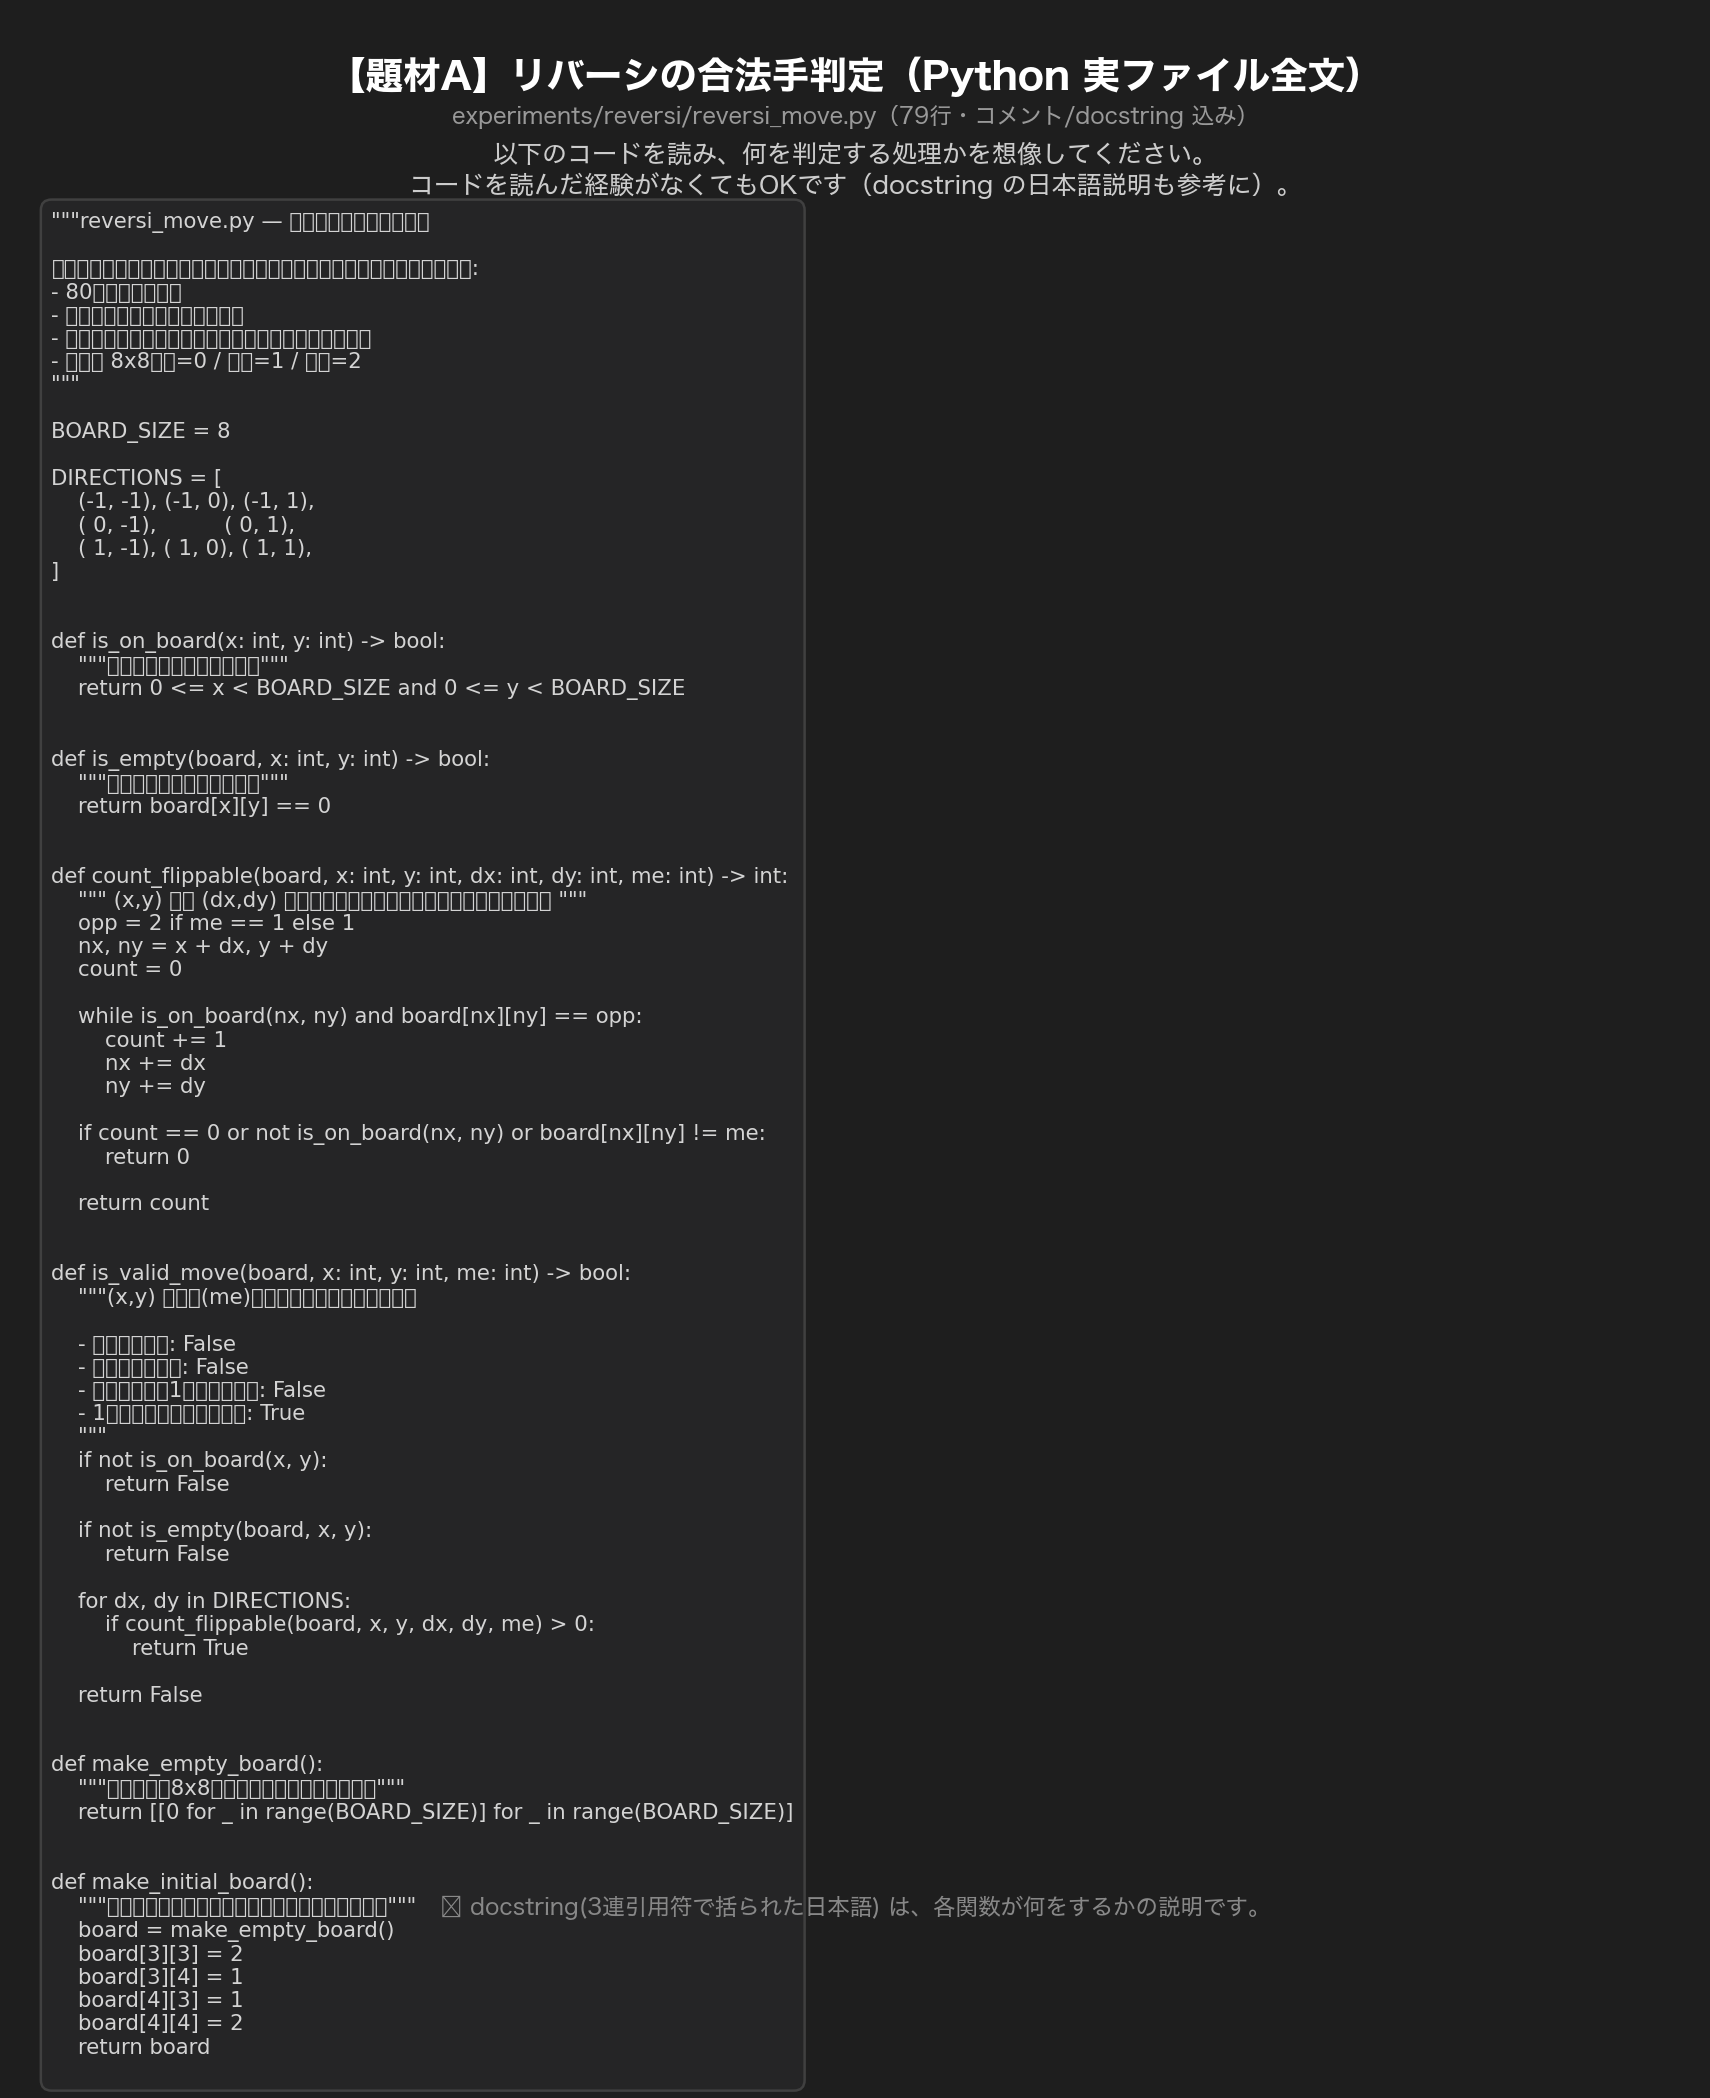
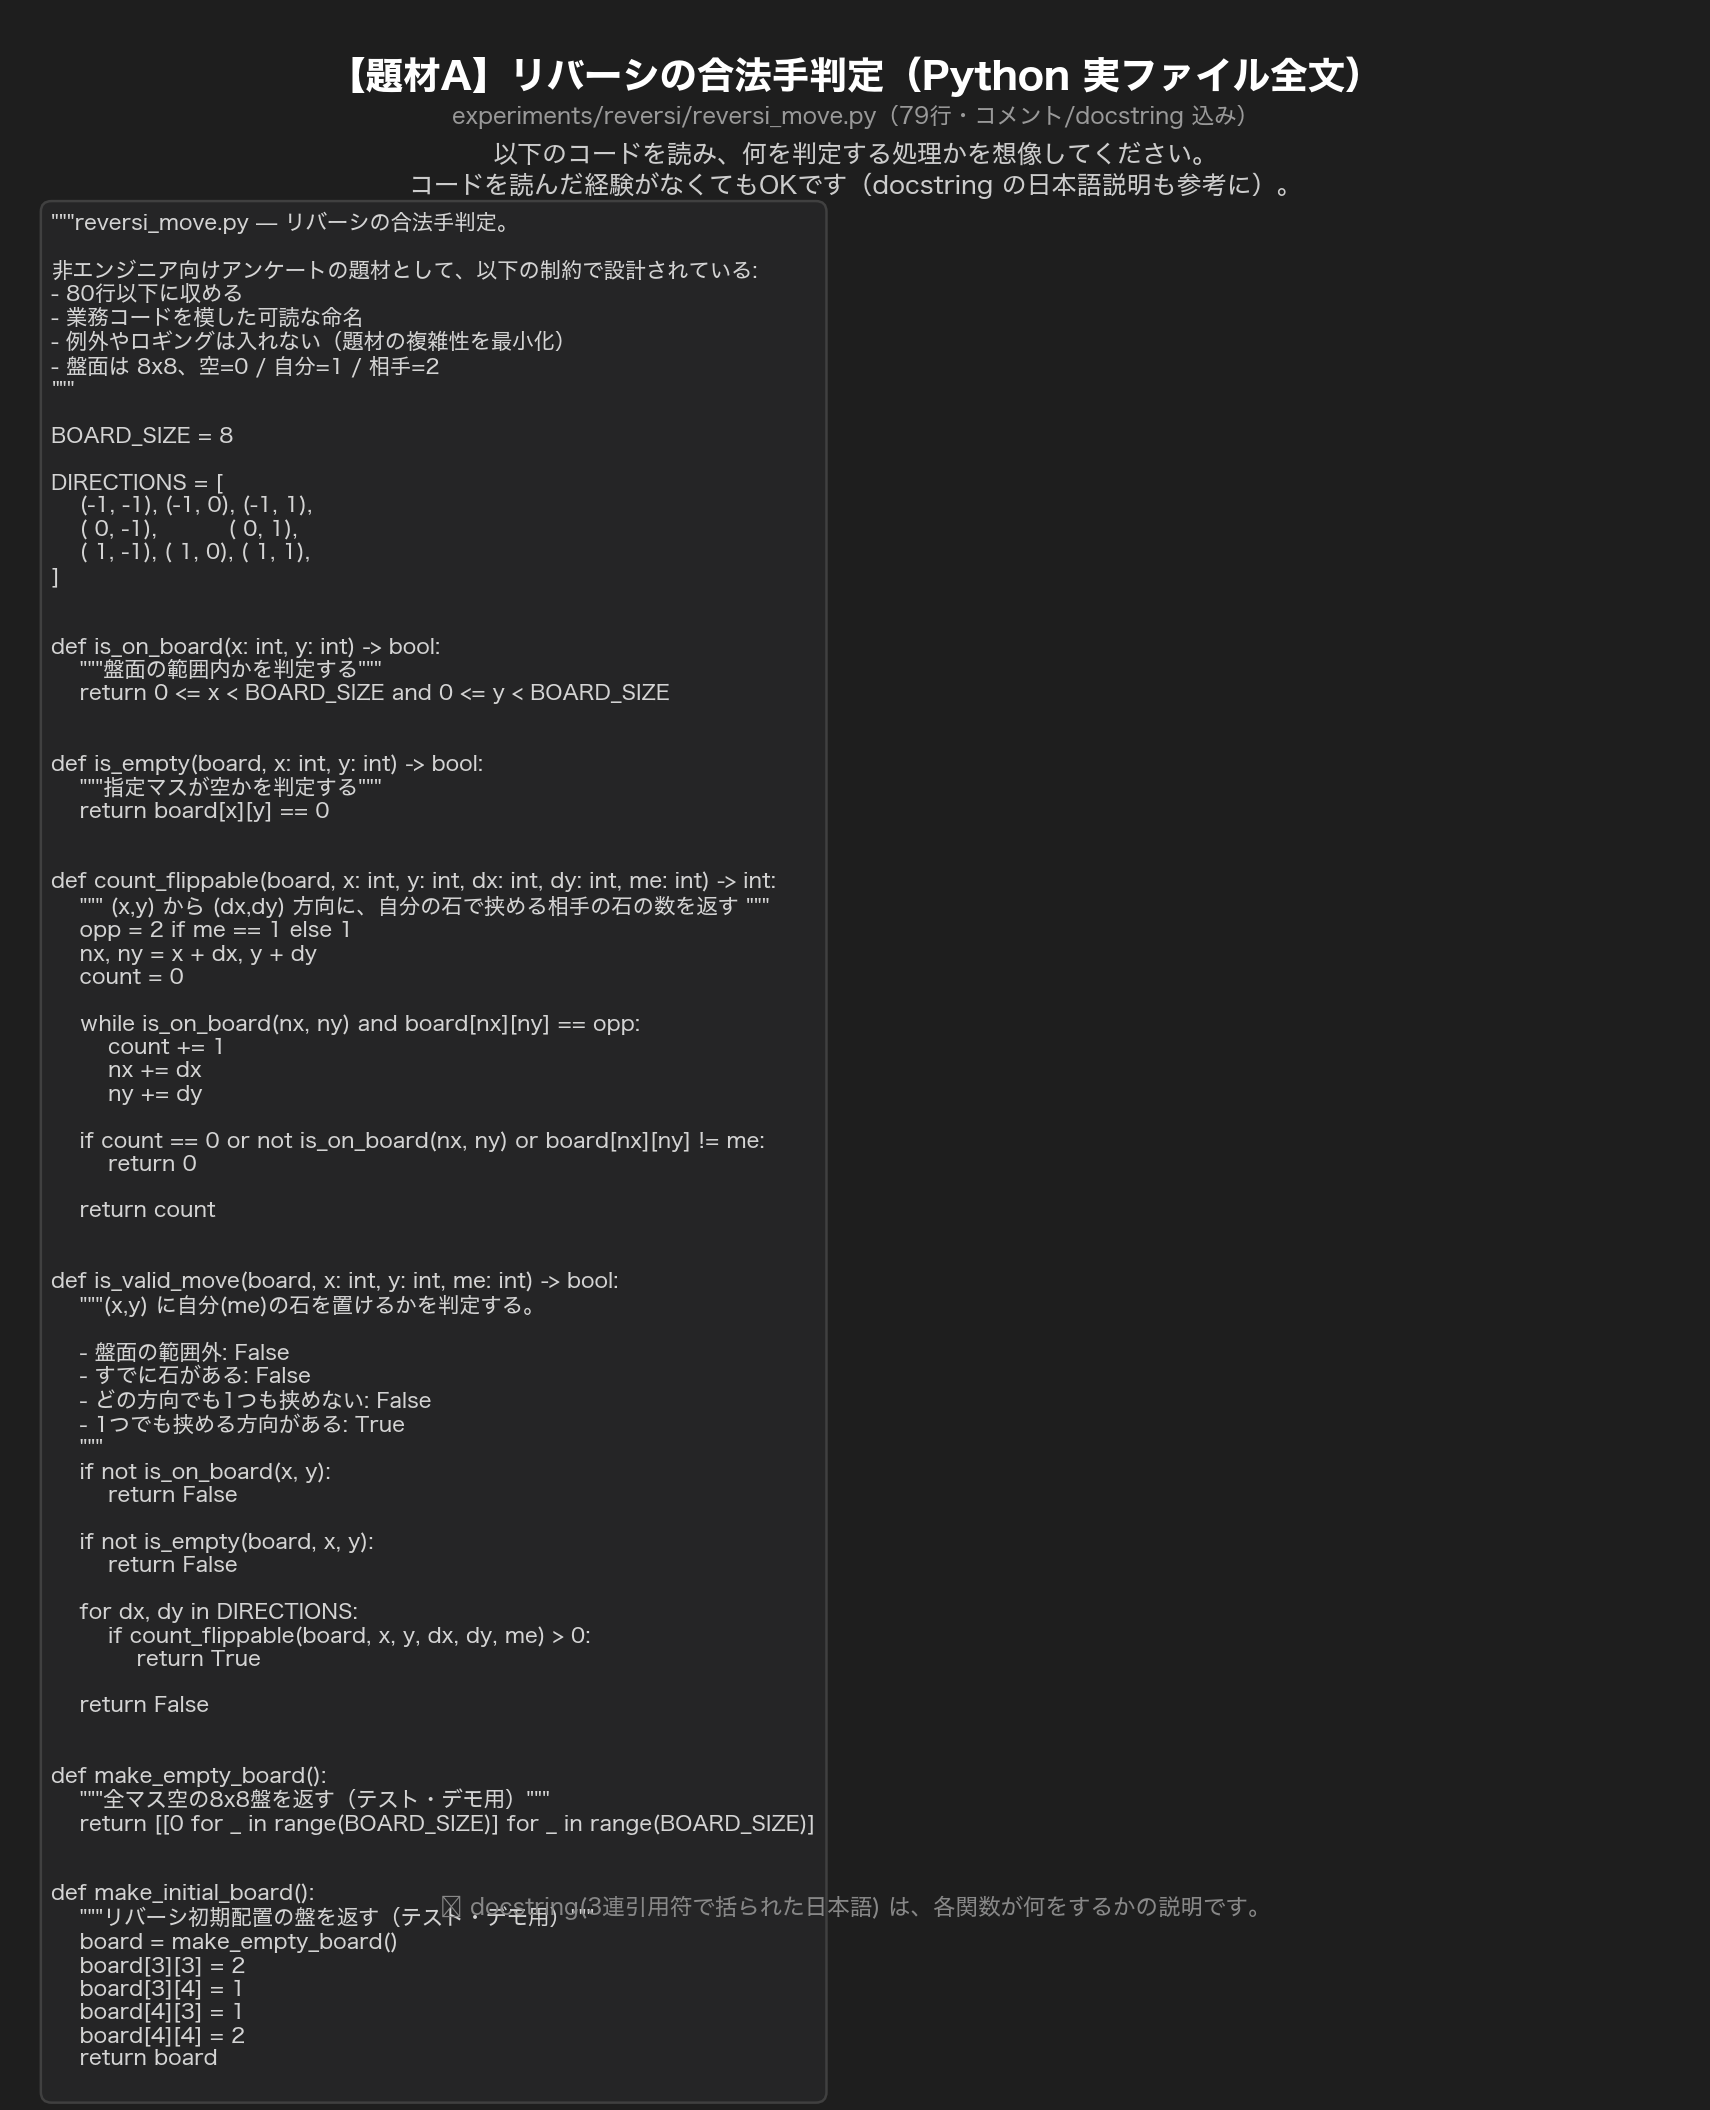
fix(survey): リバーシコード画像の日本語 docstring 文字化けを解消
コード画像 (01-reversi-code.png) の docstring 部分が文字化けしていた
問題を修正。

原因:
- matplotlib.text で family="Consolas" 指定
- Consolas は等幅 ASCII フォントだが、日本語グリフを含まない
- そのため docstring 内の日本語が全て豆腐 (□) として描画されていた

対応:
- family=["Hiragino Sans", "sans-serif"] に変更
- Hiragino Sans は macOS 標準の日本語フォント
- ASCII と日本語が両方正しく描画される
- 等幅ではないが、コードの判読性は保たれる

効果:
- 01-reversi-code.png サイズ: 264KB → 392KB
  (サイズ増は日本語グリフが正しくレンダリングされた証)
- docstring の日本語が読めるようになった:
  * "リバーシの合法手判定"
  * "盤面の範囲内かを判定する"
  * "指定マスが空かを判定する"
  * "(x,y) から (dx,dy) 方向に、自分の石で挟める相手の石の数を返す"
  * "(x,y) に自分(me)の石を置けるかを判定する"
  * etc.

副次更新:
- submission_v6_2026.docx を再生成 (内容は変化なし、タイムスタンプ更新)

次アクション:
- Drive の 01-reversi-code.png を新版にアップデート
- 既存ファイルの「版を管理」→「新しい版をアップロード」
  で URL/ID を変えずに差し替え可能

diff --git a/scripts/generate_survey_images.py b/scripts/generate_survey_images.py
@@ -87,9 +87,13 @@ def make_reversi_code_image(output_path: Path):
             transform=ax.transAxes, style="italic")
 
     # コード本体 (docstring/comment 込み)
-    # 行数増加に対応してフォントサイズを 10→8.5 に下げる
+    # 日本語 docstring が文字化けしないよう、フォントを
+    # 「等幅英語 + 日本語」をサポートするものに切替
+    # macOS: Hiragino Sans は等幅ではないが日本語に対応、コードも判読可能
+    # Menlo/Courier New は日本語グリフが無いため docstring が豆腐化する
     ax.text(0.02, 0.90, code, ha="left", va="top", fontsize=8.5,
-            family="Consolas", color="#d4d4d4", transform=ax.transAxes,
+            family=["Hiragino Sans", "sans-serif"],
+            color="#d4d4d4", transform=ax.transAxes,
             bbox=dict(boxstyle="round,pad=0.5", facecolor="#252526",
                       edgecolor="#404040", linewidth=1))
 
